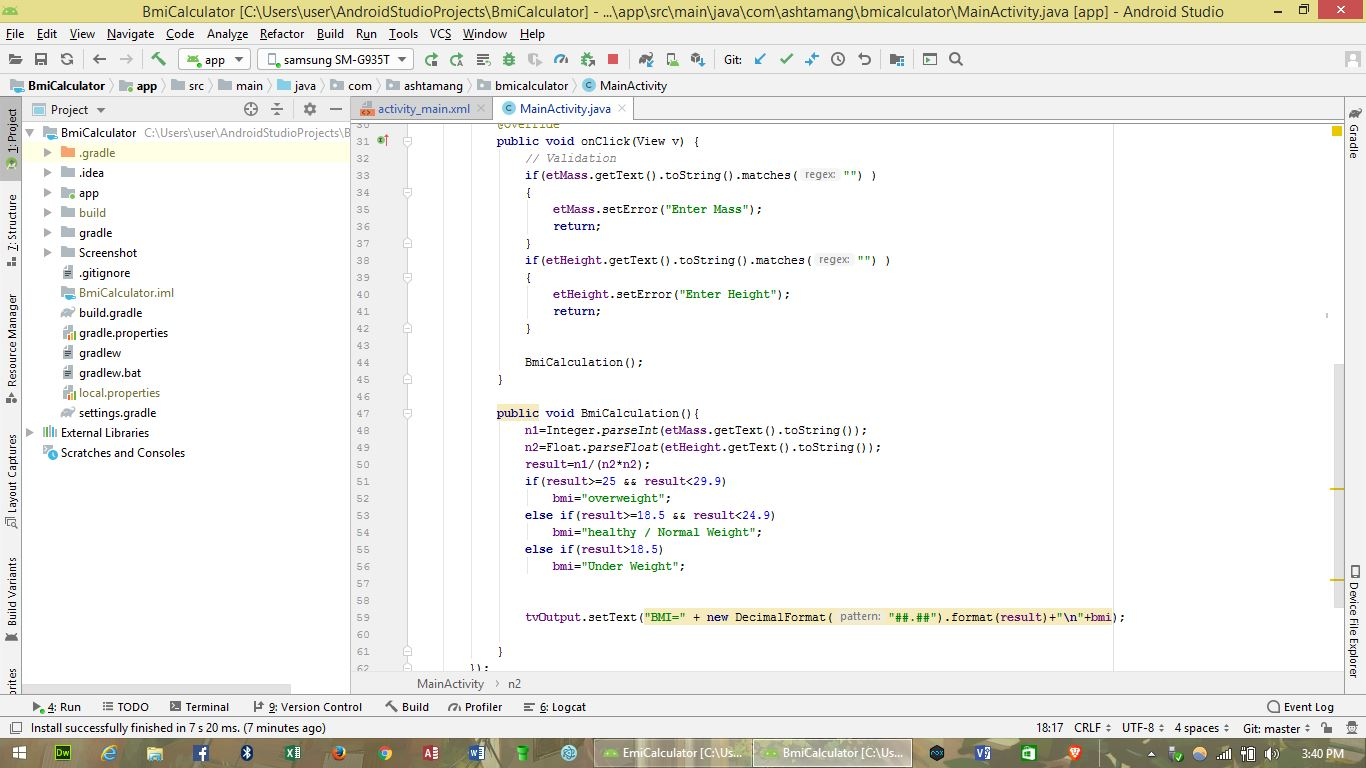
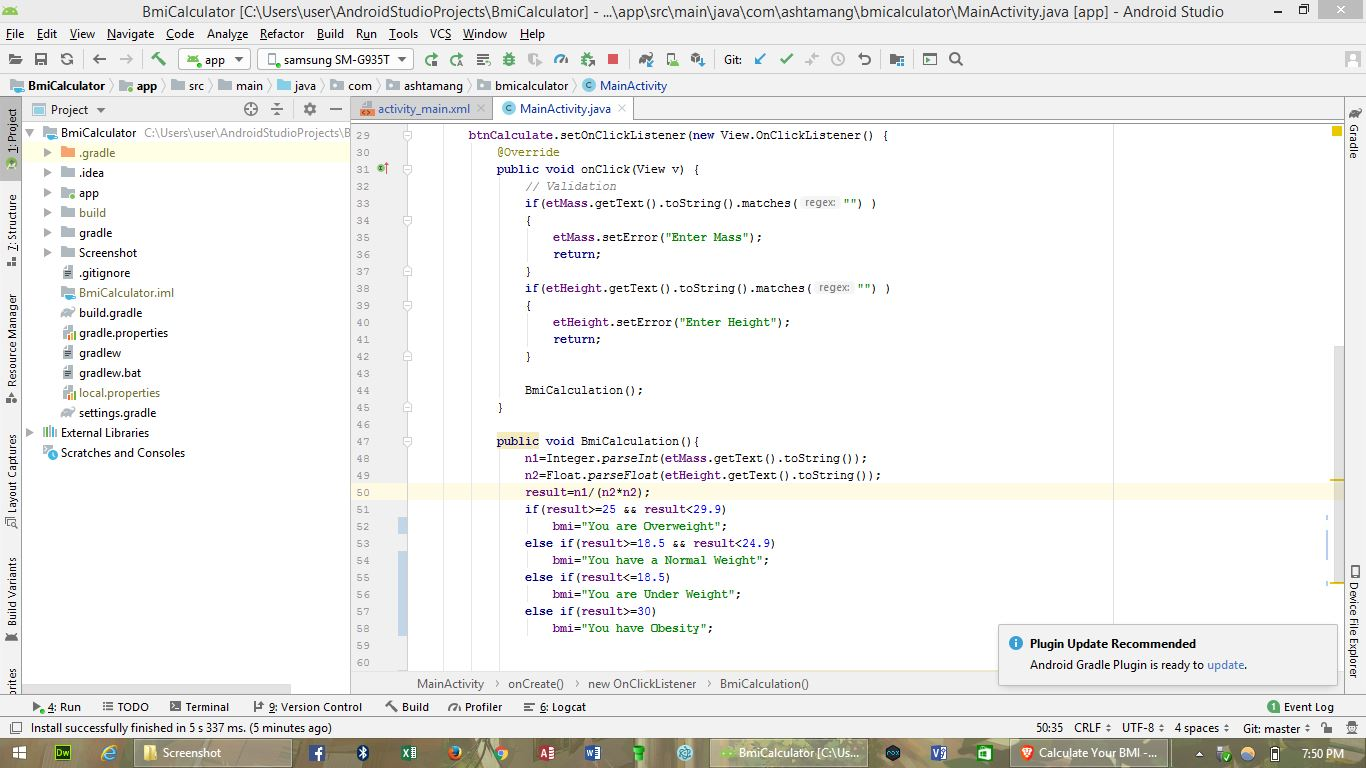
BMIcalC

diff --git a/app/src/main/java/com/ashtamang/bmicalculator/MainActivity.java b/app/src/main/java/com/ashtamang/bmicalculator/MainActivity.java
@@ -49,14 +49,16 @@ public class MainActivity extends AppCompatActivity {
                 n2=Float.parseFloat(etHeight.getText().toString());
                 result=n1/(n2*n2);
                 if(result>=25 && result<29.9)
-                    bmi="overweight";
+                    bmi="You are Overweight";
                 else if(result>=18.5 && result<24.9)
-                    bmi="healthy / Normal Weight";
-                else if(result>18.5)
-                    bmi="Under Weight";
+                    bmi="You have a Normal Weight";
+                else if(result<=18.5)
+                    bmi="You are Under Weight";
+                else if(result>=30)
+                    bmi="You have Obesity";
 
 
-                tvOutput.setText("BMI=" + new DecimalFormat("##.##").format(result)+"\n"+bmi);
+                tvOutput.setText("Your BMI = " + new DecimalFormat("##.##").format(result)+"\n*"+bmi+"*");
 
             }
         });
